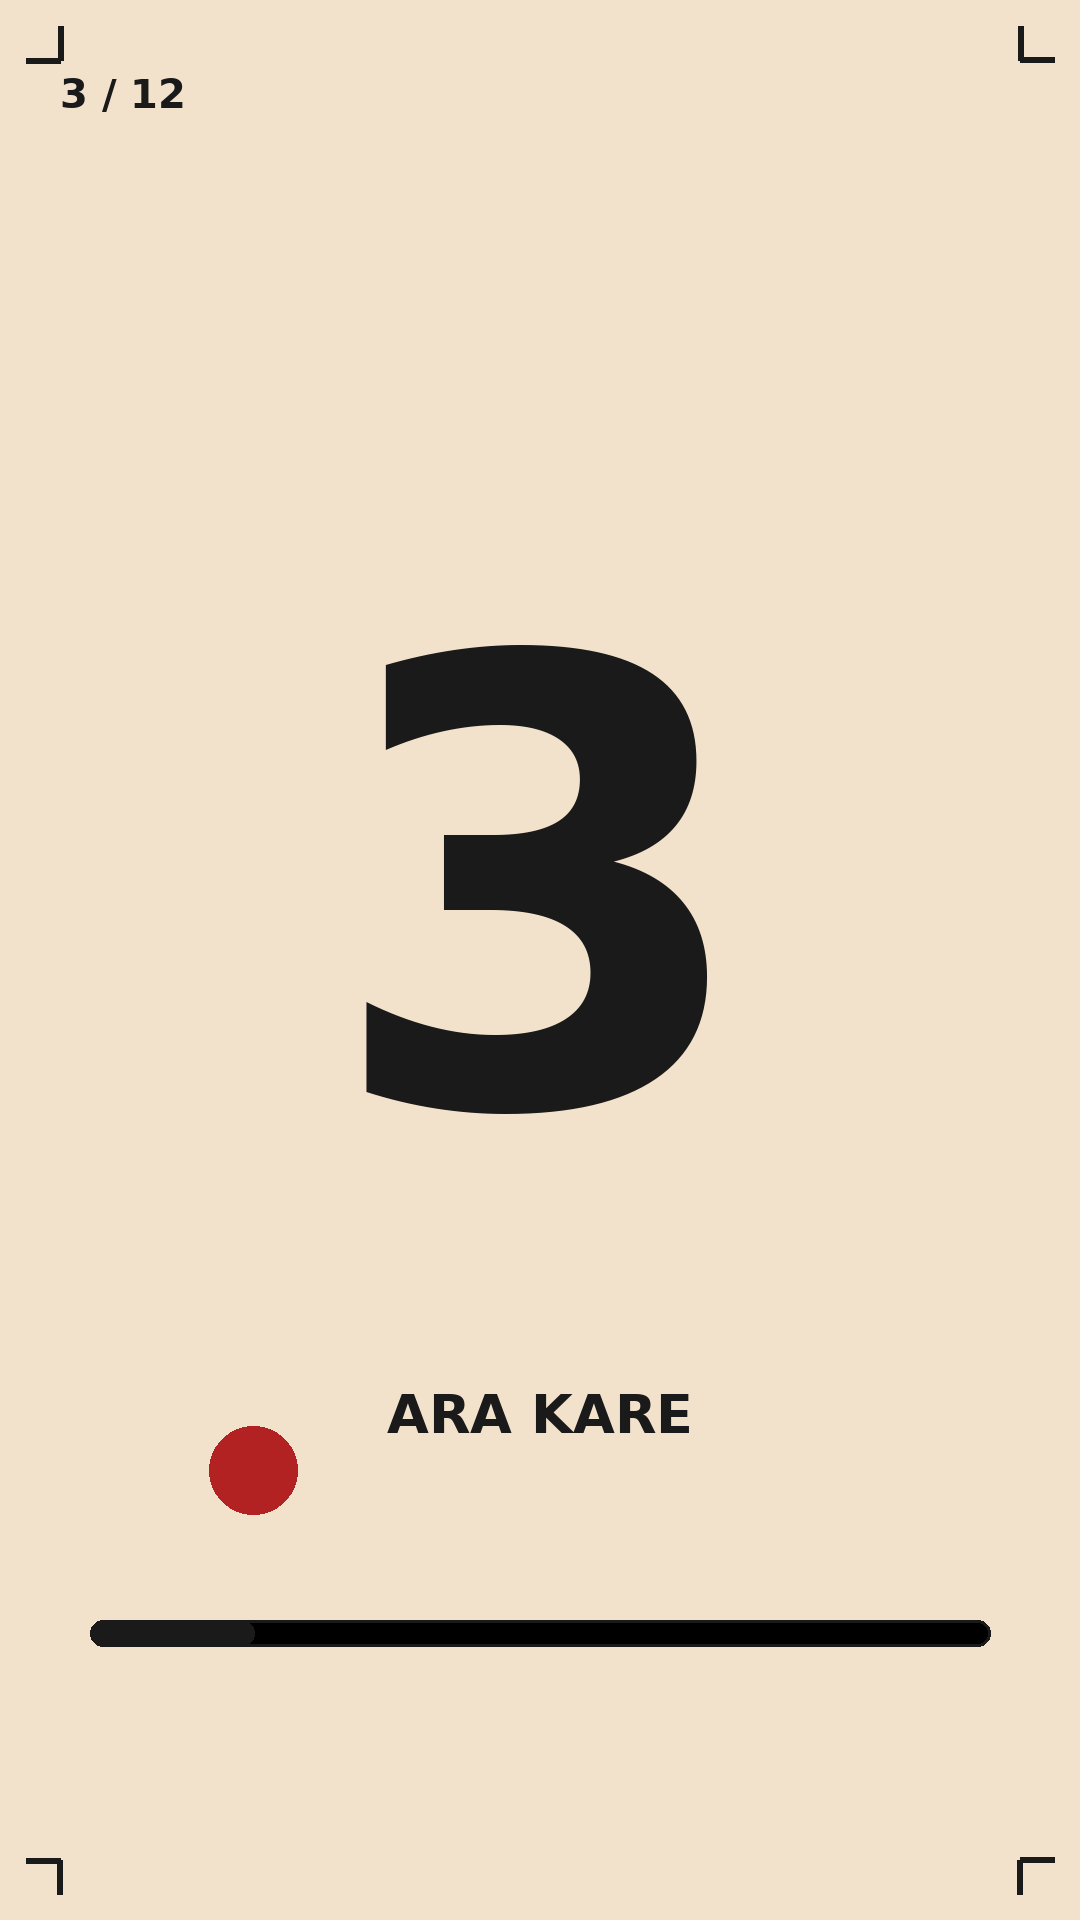
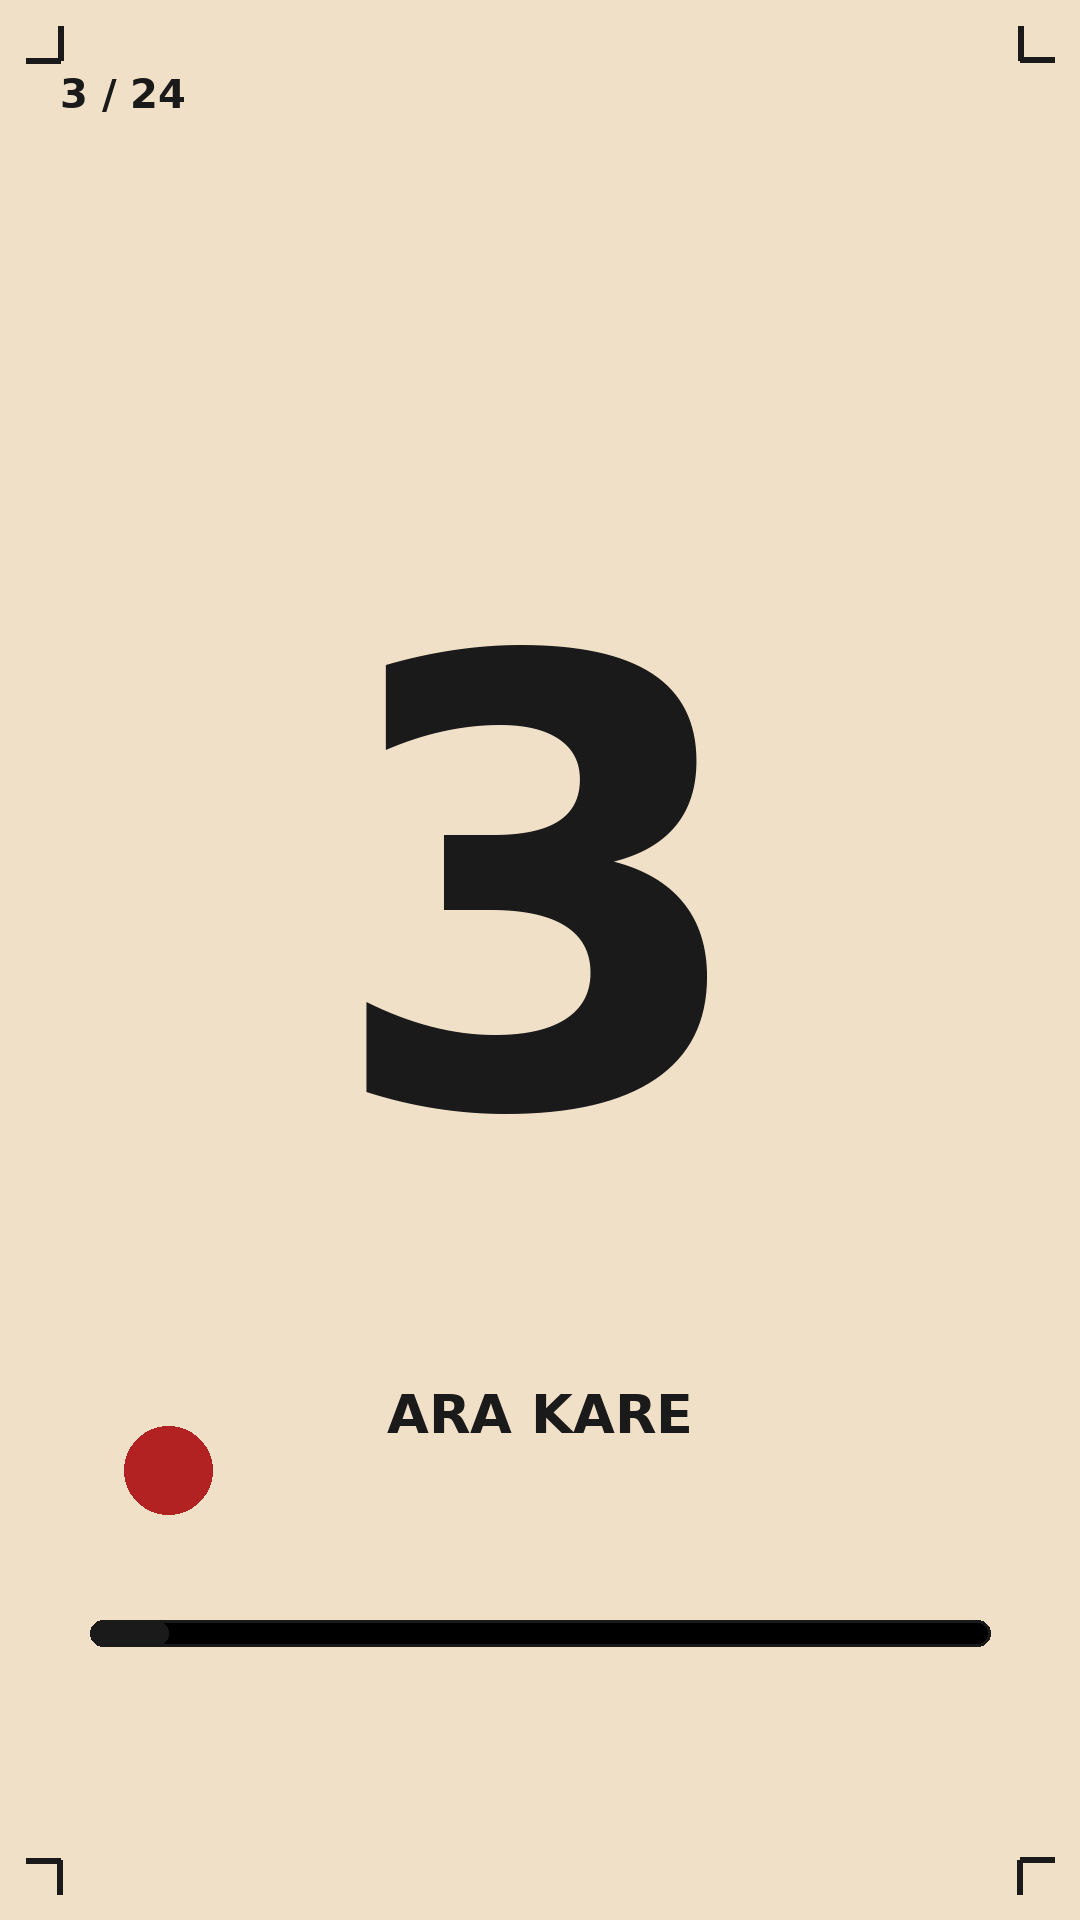
Extend the flip book to 24 slides
Twelve more numbered placeholders, 13 to 24. Slides 1-12 are unchanged;
7 is still the only gap in the drawn run.

Two consequences that needed handling rather than accepting.

The thumb distance was stated per BOOK, so doubling the slides halved the
distance per page: the flip rate doubled and the trail went 0.16 -> 0.32
of a slide, quietly undoing the lag tuning from an hour ago. It is
TRAVEL_PER_SLIDE now, so a longer book is longer rather than faster, and
the trail is back at 0.16.

That makes the book 1.15 screen-heights long, which no thumb crosses in
one drag -- so a throw now decides by DIRECTION where a slow release
still decides by distance. FLICK is 0.55 px/ms, the same constant the
carousel and the three card decks already throw at.

  quick flick down  -> 24     quick flick up   -> 1
  slow short down   -> 1      slow far down    -> 24

And the two actors moved from live:11 to live:23. Slide 12 is a middle
slide now, and an actor can only be live where the book can come to
rest; their poses still bring them in over slides 8-12 and then hold, so
they arrive with İstanbul and ride along to the end.

The book is 3.93 MB and 190 MB decoded at 24 slides -- see the note in
the README about halving the in-betweens.

Claude-Session: https://claude.ai/code/session_01WMKaPmCmG3fgiq73F8iWgK

Changed region(s): [[0.0917, 0.7188, 0.275, 0.8125], [0.1528, 0.8438, 0.2444, 0.875], [0.1222, 0.0312, 0.1833, 0.0625]]

diff --git a/project.html b/project.html
@@ -287,7 +287,7 @@
 // fault, and if it is smooth here then everything that made it rough
 // elsewhere is something else.
 // ══════════════════════════════════════════════════════════════
-const FRAMES = 12;
+const FRAMES = 24;
 
 // ── What each frame shows ──
 // The two ends are the real maps; everything between is still the
@@ -320,12 +320,26 @@ const SRC = i => OVERRIDE[i] || ('assets/project/' + String(i + 1).padStart(2, '
 // one frame not yet registered with the rest of the book.
 const FIT = 'cover';
 
-// How far the thumb travels to cross the whole book. A fraction of the
-// screen rather than a pixel count, so it feels the same on every phone.
-const TRAVEL = 0.55;
-// Where a release decides which end it is running to.
+// How far the thumb travels PER PAGE, as a fraction of the screen's
+// height -- not per book. Stated this way on purpose: the book's length
+// is a thing that changes, and with a fixed whole-book distance every
+// slide added made every page flip faster, which quietly undoes the lag
+// tuning. 0.05 is the original 0.55 across the twelve-slide book.
+const TRAVEL_PER_SLIDE = 0.05;
+const TRAVEL = TRAVEL_PER_SLIDE * (FRAMES - 1);
+// Where a release decides which end it is running to, when the finger
+// was moving slowly enough for position to be the question.
 const TIP = 0.5;
-// How fast it runs out once let go, in frames per second.
+// px/ms. Past this the direction of the throw decides instead of the
+// distance -- otherwise a long book can only be crossed by dragging
+// half a screen, which is not a gesture anyone makes twice. 0.55 is the
+// app's own throw constant (FLICK_SPEED in router.js, and the deck
+// swipes on Kütüphane and Kahvehane), so a flick that turns the book
+// asks exactly as much of the thumb as a flick that throws a card away.
+const FLICK = 0.55;
+// How fast it runs out once let go, in pages per second. A longer book
+// takes longer to run out, which is right -- but only up to a point, so
+// this is the knob if the far end starts feeling distant.
 const RUN_FPS = 34;
 
 // ══════════════════════════════════════════════════════════════
@@ -352,7 +366,11 @@ const RUN_FPS = 34;
 const CAST = [
   {
     id: 'events',
-    live: 11,                       // the slide it belongs to (0-based)
+    // The last slide, 0-based. It was 11 when the book ended there; the
+    // book runs to 24 now, and an actor can only be live where the book
+    // can actually come to rest. Its poses still bring it in over slides
+    // 8-12 and then hold, so it arrives with İstanbul and rides along.
+    live: 23,
     cls: 'fb-events',
     // How closely it follows. Two numbers: `lag` while the finger is
     // down, `lagFree` once it is let go -- higher is tighter. Per-actor
@@ -382,7 +400,7 @@ const CAST = [
   },
   {
     id: 'sozcel',
-    live: 11,
+    live: 23,
     cls: 'fb-sozcel',
     lag: 0.43, lagFree: 0.135,
     // The wordmark is the tile's way of saying its name -- the same
@@ -778,7 +796,8 @@ function onDown(e) {
   // exactly like a dead button and nothing throws.
   if (e.target && e.target.closest && e.target.closest('.fb-actor.live')) return;
   stopAnim();
-  drag = { y: e.clientY, from: at, moved: false };
+  drag = { y: e.clientY, from: at, moved: false,
+           lastY: e.clientY, lastT: performance.now(), v: 0 };
   armCast();                    // a press begins: the cast goes inert
   box.setPointerCapture && box.setPointerCapture(e.pointerId);
 }
@@ -788,6 +807,10 @@ function onMove(e) {
   const dy = e.clientY - drag.y;
   if (!drag.moved && Math.abs(dy) < 4) return;
   drag.moved = true;
+  const now = performance.now();
+  const dt = now - drag.lastT;
+  if (dt > 0) drag.v = (e.clientY - drag.lastY) / dt;
+  drag.lastY = e.clientY; drag.lastT = now;
   // Down is forward. The span is the whole book, so the finger is
   // moving the pages rather than nudging a counter.
   const span = window.innerHeight * TRAVEL;
@@ -820,9 +843,12 @@ function runTo(target) {
 function onUp() {
   if (!drag) return;
   const wasDrag = drag.moved;
+  const v = drag.v;
   drag = null;
   if (!wasDrag) { armCast(); return; }
   // The book only ever comes to rest on the first frame or the last.
+  // A throw decides by DIRECTION; a slow release decides by position.
+  if (Math.abs(v) > FLICK) { runTo(v > 0 ? FRAMES - 1 : 0); return; }
   const p = at / (FRAMES - 1);
   runTo(p >= TIP ? FRAMES - 1 : 0);
 }
